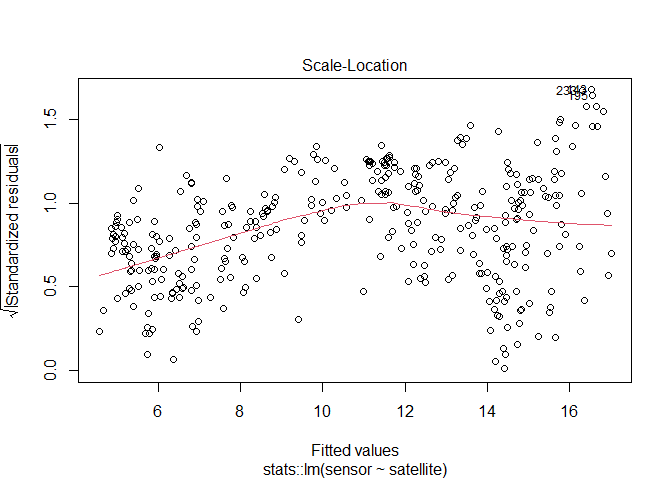
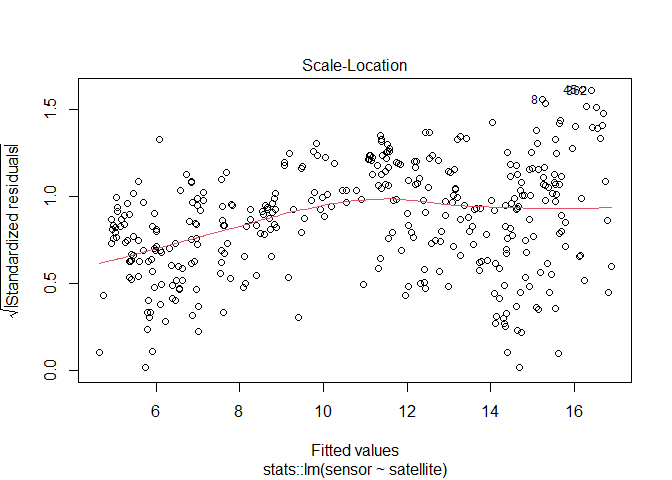
fixed wave issues

diff --git a/README.md b/README.md
@@ -375,32 +375,49 @@ a <- example_airpressure()
 head(a)
 ```
 
-    ##   DateTime sea_pressure.mbar
-    ## 1     <NA>           1022.05
-    ## 2     <NA>           1022.05
-    ## 3     <NA>           1022.05
-    ## 4     <NA>           1022.05
-    ## 5     <NA>           1022.06
-    ## 6     <NA>           1022.06
+    ##              DateTime sea_pressure.mbar
+    ## 1 2021-05-16 00:00:00           1022.05
+    ## 2 2021-05-16 00:05:00           1022.05
+    ## 3 2021-05-16 00:10:00           1022.05
+    ## 4 2021-05-16 00:15:00           1022.05
+    ## 5 2021-05-16 00:20:00           1022.06
+    ## 6 2021-05-16 00:25:00           1022.06
 
 #### Calculate Wave Statistcs
 
 ``` r
-#i <- interp_swpressure(wavelogger = x, airpressure = a)
+i <- interp_swpressure(wavelogger = x, airpressure = a)
 
-#w <- wave_stats(wavelogger = mbar_to_elevation(wavelogger = i)) 
+w <- wave_stats(wavelogger = mbar_to_elevation(wavelogger = i)) 
 
-#head(w)
+head(w)
 ```
+
+    ##          h       Hm0        Tp          m0    T_0_1    T_0_2      EPS2
+    ## 1 5.311525 0.1391045 11.428571 0.001209379 7.467398 6.625700 0.5198161
+    ## 2 5.400873 0.1385070 11.612903 0.001199012 7.563648 6.702864 0.5228120
+    ## 3 5.577315 0.1414778 10.434783 0.001250998 7.327396 6.485607 0.5257691
+    ## 4 5.830439 0.1529073 12.413793 0.001461291 7.138421 6.348096 0.5142914
+    ## 5 6.168788 0.1464905 12.000000 0.001341216 6.627873 5.910600 0.5073796
+    ## 6 6.532976 0.1492757  8.674699 0.001392702 6.299749 5.659775 0.4888088
+    ##        EPS4            DateTime
+    ## 1 0.7483700 2021-05-16 00:30:00
+    ## 2 0.7543657 2021-05-16 01:00:00
+    ## 3 0.7467871 2021-05-16 01:30:00
+    ## 4 0.7373126 2021-05-16 02:00:00
+    ## 5 0.7135647 2021-05-16 02:30:00
+    ## 6 0.6908076 2021-05-16 03:00:00
 
 ### Function: wavespec_plot()
 
 #### Significant Wave Height Example Plot
 
 ``` r
-#wave_plot <- wavespec_plot(w)
-#wave_plot
+wave_plot <- wavespec_plot(w)
+wave_plot
 ```
+
+![](README_files/figure-gfm/GraphWaves-1.png)<!-- -->
 
 ## PAR Data (PAR Odyssey Xtreem)
 
@@ -528,18 +545,18 @@ summary(model)
     ## 
     ## Residuals:
     ##     Min      1Q  Median      3Q     Max 
-    ## -3.6283 -0.8241 -0.0868  1.1431  2.7793 
+    ## -3.4936 -0.9211 -0.1351  1.1743  2.7421 
     ## 
     ## Coefficients:
     ##             Estimate Std. Error t value Pr(>|t|)    
-    ## (Intercept)  2.45364    0.16761   14.64   <2e-16 ***
-    ## satellite    0.68481    0.01256   54.51   <2e-16 ***
+    ## (Intercept)  2.57934    0.17441   14.79   <2e-16 ***
+    ## satellite    0.67200    0.01291   52.06   <2e-16 ***
     ## ---
     ## Signif. codes:  0 '***' 0.001 '**' 0.01 '*' 0.05 '.' 0.1 ' ' 1
     ## 
-    ## Residual standard error: 1.3 on 361 degrees of freedom
-    ## Multiple R-squared:  0.8917, Adjusted R-squared:  0.8914 
-    ## F-statistic:  2972 on 1 and 361 DF,  p-value: < 2.2e-16
+    ## Residual standard error: 1.348 on 361 degrees of freedom
+    ## Multiple R-squared:  0.8824, Adjusted R-squared:  0.8821 
+    ## F-statistic:  2710 on 1 and 361 DF,  p-value: < 2.2e-16
 
 ``` r
 modelresult <- predict_data(model = model, modeldata = modeldat) 
@@ -547,12 +564,12 @@ head(modelresult)
 ```
 
     ##     DateTime   sensor satellite predicted
-    ## 1 2023-01-01 8.541375  6.782007  7.098016
-    ## 2 2023-01-02 8.416854  6.337000  6.793272
-    ## 3 2023-01-03 8.437542  6.162012  6.673438
-    ## 4 2023-01-04 8.433583  6.353998  6.804912
-    ## 5 2023-01-05 8.302479  6.563989  6.948716
-    ## 6 2023-01-06 8.023813  5.960992  6.535779
+    ## 1 2023-01-01 8.541375  6.782007  7.136837
+    ## 2 2023-01-02 8.416854  6.337000  6.837793
+    ## 3 2023-01-03 8.437542  6.162012  6.720201
+    ## 4 2023-01-04 8.433583  6.353998  6.849215
+    ## 5 2023-01-05 8.302479  6.563989  6.990329
+    ## 6 2023-01-06 8.023813  5.960992  6.585116
 
 ### Function: draw_satsensor_plot()
 
